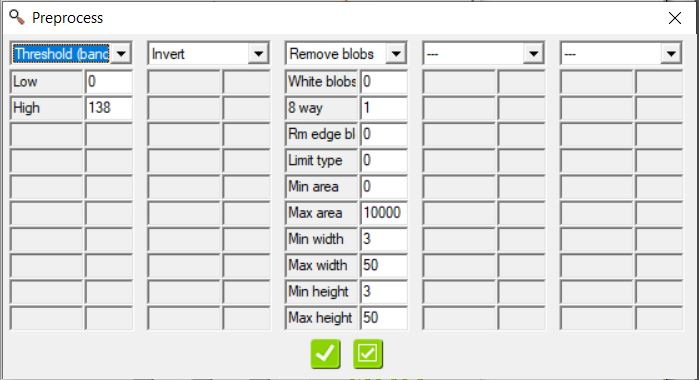
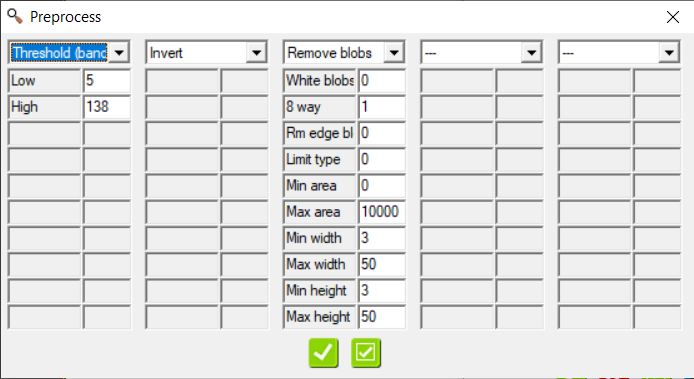
DefectDots 2nd commit

diff --git a/soln/DefectDots/DefectDots.rst b/soln/DefectDots/DefectDots.rst
@@ -20,14 +20,57 @@ Tools Explanation
 * At the ``Tool Setup`` page |toolsetup|, click on |takepic| if until ``mpsmdots.bmp`` is loaded.
 * Only a ``Count`` tool called ``N`` is used with the region-of-interest (ROI) set to the area where defect detection is to be performed.
 * Hovering the mouse over the green line denoting the ROI, the count tool gives a preview of the output after preprocessing has been applied. |CountPreview|
-* Right-clicking on the border which has turned red, the Count Properties window will be shown |CountProp| 
-  * Click on preprocess button |preprocess| to bring up the Preprocess window |PreprocessWin|
+* Right-clicking on the border which has turned red, the ``Count Properties`` window will be shown |CountProp| 
+
+  * Click on preprocess button |preprocess| to bring up the ``Preprocess`` window |PreprocessWin|
   
+    1. ``Threshold (band)``: According to the VOS manual, this converts the grayscale image to black-and-white by
+  
+      * ``White`` (255): All pixels between or equal to ``Low`` and ``High`` values
+      * ``Black`` (0): Other pixels.
+      * In this example, the defects to be detected are always darker than the uncorrupted image, and the ``Threshold (band)`` is used to convert these defects to ``white``. The resultant image from this tool is 
+  
+        |Preprocess1|
+  
+    2. Since in the ``Count Properties`` the ``Object Type`` is set to ``Dark``, the ``Count`` tool would be counting black objects. Hence the ``Invert`` tool is needed as the second preprocessor |Preprocess2| 
+    3. Until this step the alphabets would have been included in the defect count. Since they are expected to be much bigger than the defects, we use the ``Remove blobs`` tool to get rid of them. However before using ``Remove blobs`` tool, we need information about what we are removing or retaining. With only the first 2 preprocessors above active, we can click on the ``Advanced...`` |advanced| button
 
+       |Advanced|
 
+       * With the information on the area and the minor/major axes from ``Advanced...``, we can proceed to populate the parameters for the third preprocessor ``Remove blob``.
+  
+       +-----------------+-------------------+------------------------------------------------+
+       |White blobs      |0                  |Removing dark blobs                             |
+       +-----------------+-------------------+------------------------------------------------+
+       |8 way            |1                  |Use 8-way connection                            |
+       +-----------------+-------------------+------------------------------------------------+       
+       |Rm edge blobs    |0                  |Do not remove blobs that touch the ROI          |
+       +-----------------+-------------------+------------------------------------------------+       
+       |Limit type       |0                  |Remove objects outside specified limits         |
+       +-----------------+-------------------+------------------------------------------------+       
+       |Min area         |0                  |From ``Advanced..``, alphabets are > 10000 in   |
+       +-----------------+-------------------+                                                +       
+       |Max area         |10000              |area                                            |
+       +-----------------+-------------------+------------------------------------------------+
+       |Min width        |3                  |From ``Advanced..``, alphabets are > 10000 in   |
+       +-----------------+-------------------+                                                +       
+       |Max width        |50                 |area                                            |
+       +-----------------+-------------------+------------------------------------------------+
+       |Min height       |3                  |From ``Advanced..``, alphabets are > 10000 in   |
+       +-----------------+-------------------+                                                +       
+       |Max height       |50                 |area                                            |
+       +-----------------+-------------------+------------------------------------------------+
 
 .. |CountPreview| image:: /soln/DefectDots/CountPreview.jpg
 
 .. |CountProp| image:: /soln/DefectDots/CountProperties.jpg
 
 .. |PreprocessWin| image:: /soln/DefectDots/Preproc.jpg
+
+.. |Preprocess1| image:: /soln/DefectDots/Preproc1.jpg
+
+.. |Preprocess2| image:: /soln/DefectDots/Preproc2.jpg
+
+.. |Preprocess3| image:: /soln/DefectDots/Preproc3.jpg
+
+.. |Advanced| image:: /soln/DefectDots/CountAdvanced.jpg    

diff --git a/shared/EmulatorComponents.rst b/shared/EmulatorComponents.rst
@@ -27,6 +27,10 @@
    :width: 45px
    :height: 45px
 
+.. |advanced| image:: /img/emulator/buttons/advanced.jpg
+   :width: 45px
+   :height: 45px
+
 .. image locations
 .. |demoimg| image:: /img/emulator/demoImgLoc.jpg
    :width: 421px
